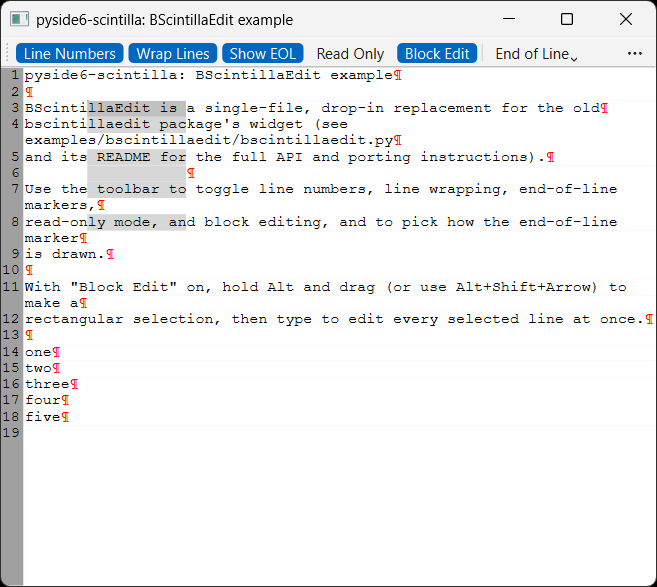
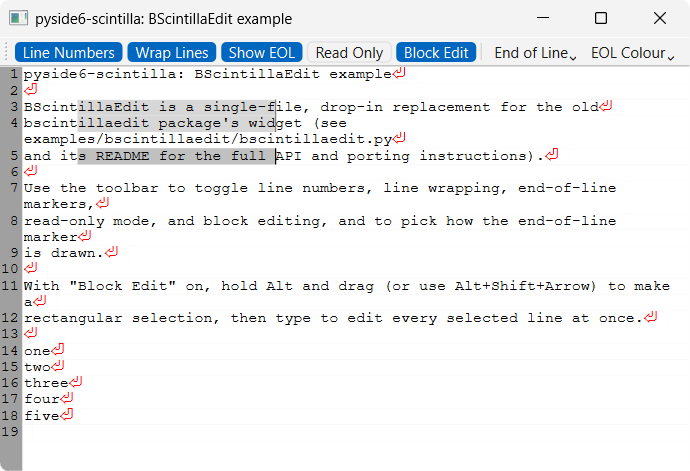
Retake and clean up bscintillaedit screenshot, sync docs title
Crop the Windows window border and unblend the rounded-corner
background bleed from the freshly retaken screenshot. Retitle the
bscintillaedit docs page to "BScintillaEdit drop-in replacement" and
update the stale examples index card to match the current drop-in
framing.

diff --git a/docs/examples/index.md b/docs/examples/index.md
@@ -29,13 +29,14 @@ uv run python examples/<example>/main.py
 
     [:octicons-arrow-right-24: More](simple_scintilla_edit.md)
 
--   :material-form-textbox:{ .lg .middle } __bscintillaedit__
+-   :material-form-textbox:{ .lg .middle } __BScintillaEdit drop-in replacement__
 
     ---
 
-    A small, portable, single-file `BScintillaEdit` convenience subclass of
-    `ScintillaEdit` with sane defaults (fixed-width font, line-number
-    margin), meant to be copied into your own project.
+    A small, portable, single-file `BScintillaEdit(QScrollArea)` widget that's
+    a drop-in replacement for the old, now-archived `bscintillaedit` PyPI
+    package's widget of the same name, meant to be copied into your own
+    project.
 
     [:octicons-arrow-right-24: More](bscintillaedit.md)
 

diff --git a/docs/examples/bscintillaedit.md b/docs/examples/bscintillaedit.md
@@ -1,4 +1,4 @@
-# bscintillaedit
+# BScintillaEdit drop-in replacement
 
 A small, portable, single-file `BScintillaEdit(QScrollArea)` widget that's a
 **drop-in replacement** for the old, now-archived `bscintillaedit` PyPI